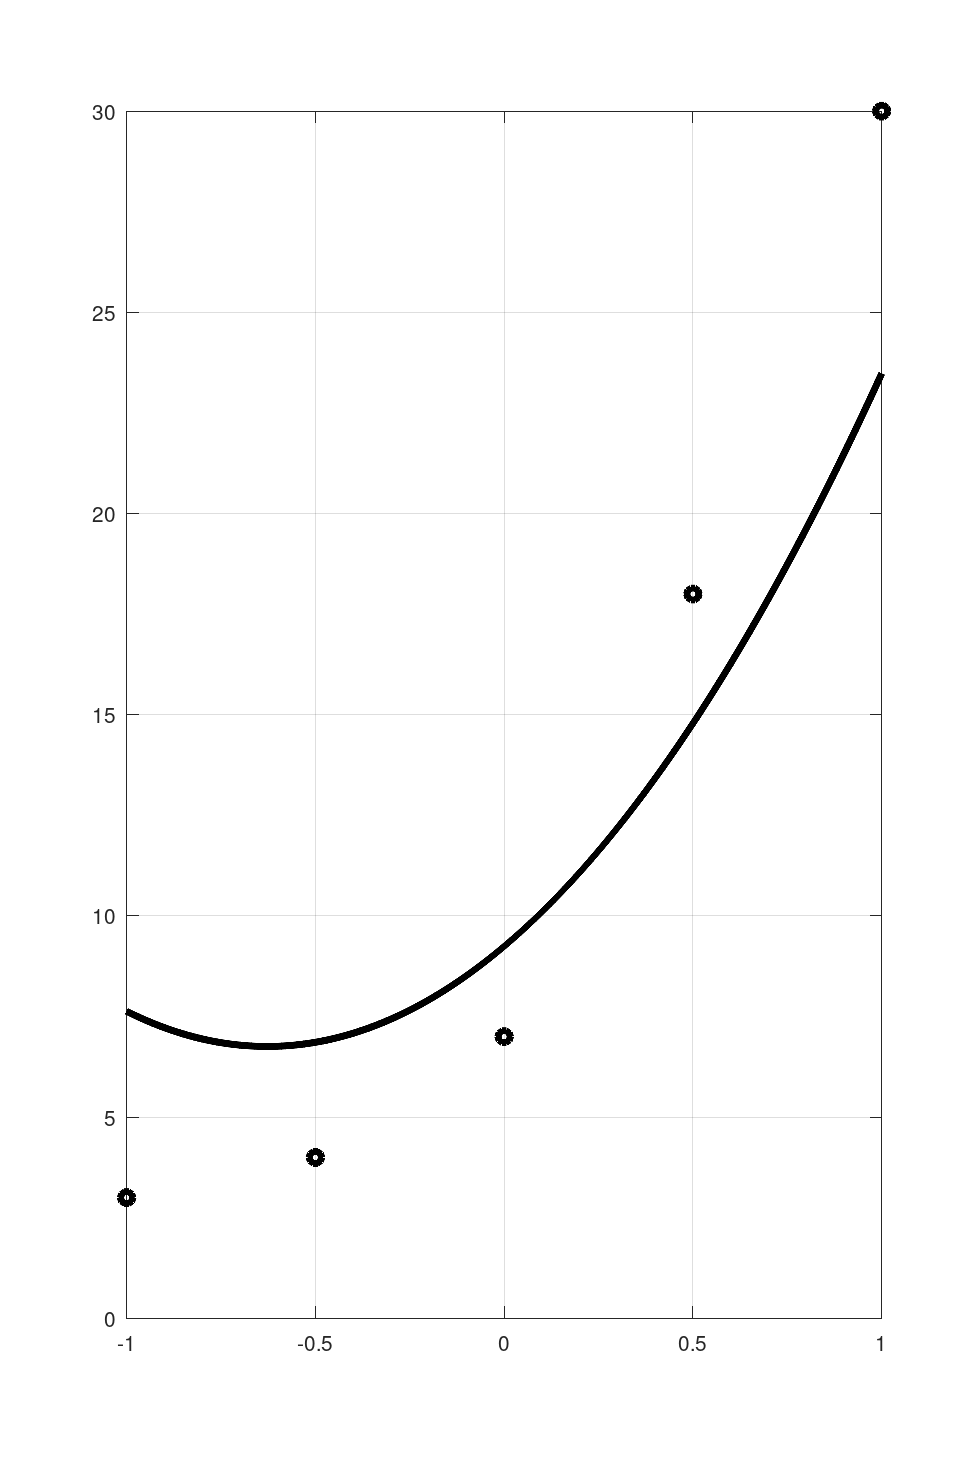
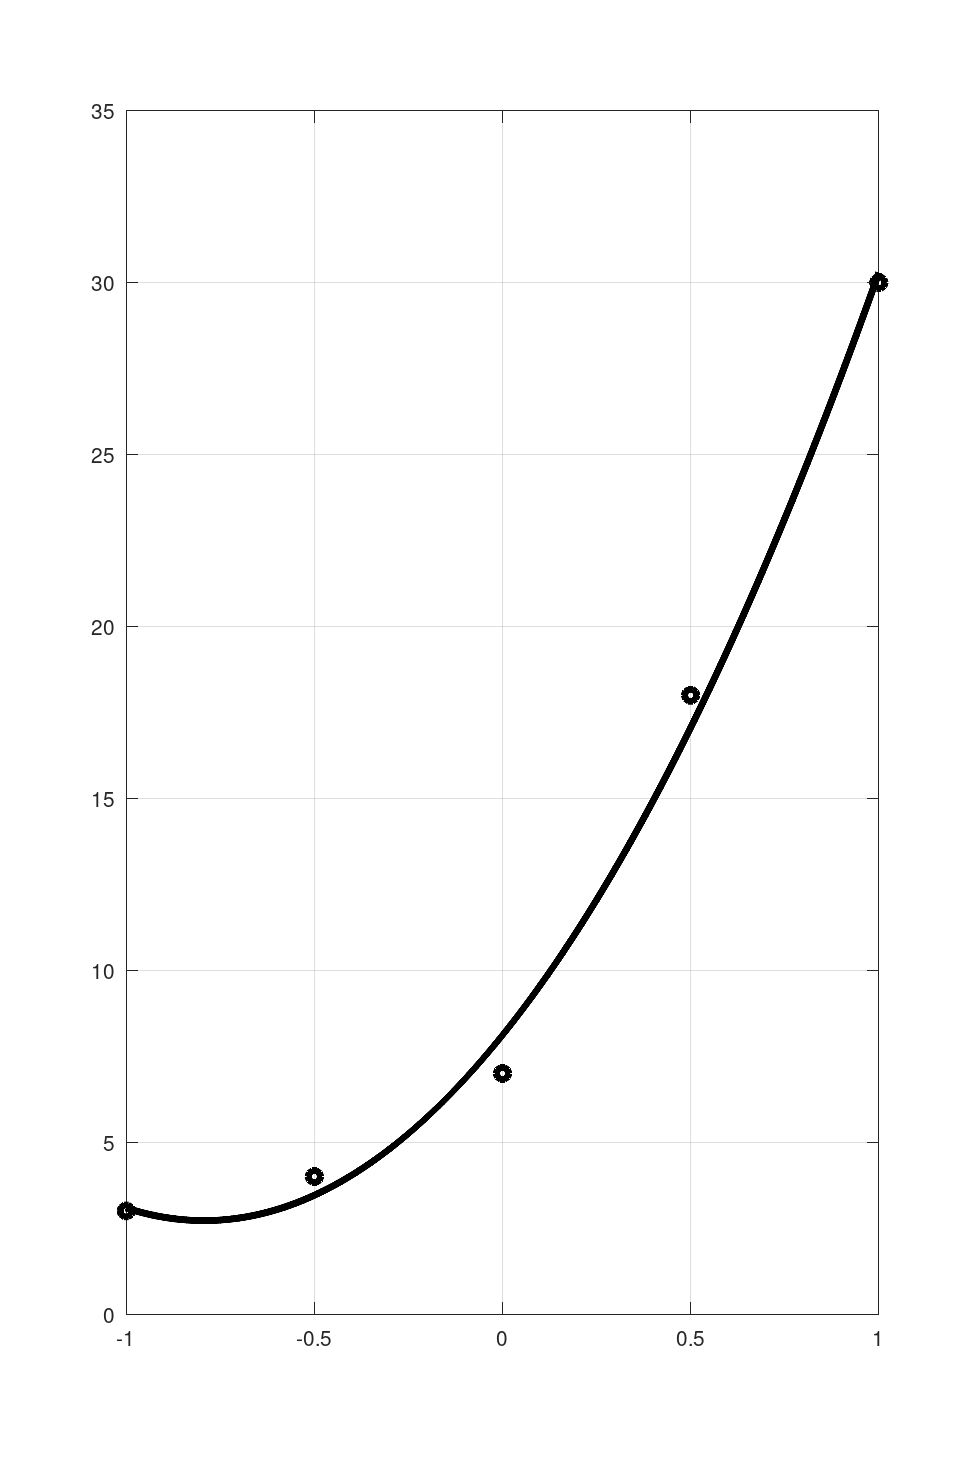
cv6 - fix

diff --git a/06/prokladani_krivkou_kvadratickou.m b/06/prokladani_krivkou_kvadratickou.m
@@ -6,8 +6,8 @@ grid on
 print -dpng kvadraticka_funkce_body.png
 
 A = [ 5, 0, 2.5;
-      0, 2.5, 2.250;
-      2.5, 0.250, 2.125;];
+      0, 2.5, 0;
+      2.5, 0., 2.125;];
 
 b = [ sum(y), sum(y.*x), sum(y.*x.*x) ]
 
@@ -16,12 +16,12 @@ kvadraticka_funkce = @(x) koef(1) + koef(2)*x + koef(3)*x.*x
 
 x_p = [x(1) : 0.01 : x(end)];
 
+
 hold on
 plot(x, y, 'ok')
 plot(x_p, kvadraticka_funkce(x_p), 'k', 'LineWidth',5)
 grid on
 print -dpng kvadraticka_funkce.png
 
-% -------------------------------------------------------------------------------
 
 
